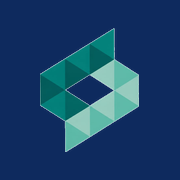
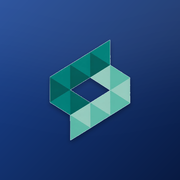
Orcamento: linhas fechadas com botao Editar (remover so com confirmacao e Desfazer); icone do app arredondado e adaptavel no Android

diff --git a/app/prop.js b/app/prop.js
@@ -186,7 +186,7 @@ function ppEditorLigar() {
   f.onsubmit = e => { e.preventDefault(); ppSalvar(); };
   // campo obrigatório dentro de um bloco recolhido: abre o bloco para mostrar o que falta
   f.addEventListener('invalid', e => { const d = e.target.closest('details'); if (d) d.open = true; }, true);
-  $('#ppEt').onclick = () => { ppColher(); const et = { tipo: 'E', descricao: '' }; E.linhas.push(et); E.alvo = et; E.sujo = true; ppDesenhar(true); ppMostraAlvo(); const l = $$('#ppLin .pp-l.et input'); if (l.length) l[l.length - 1].focus(); };
+  $('#ppEt').onclick = () => { ppColher(); const et = { tipo: 'E', descricao: '' }; E.linhas.push(et); E.alvo = et; E.sujo = true; ppDesenhar(true); ppMostraAlvo(); ppEditarEtapa(E.linhas.length - 1); };
   $('#ppDir').onclick = () => ppIncluir({ tipo: 'I', comp_cod: '', descricao: '', unidade: 'vb', qtd: '1', unit_mat: '', unit_mo: '', unit_eq: 0, unit_sv: 0 }, true);
   // recolher / expandir todas as etapas de uma vez (tela mais limpa)
   $('#ppTodas').onclick = () => { const ets = E.linhas.filter(l => l.tipo === 'E'), fecha = ets.some(l => !l._fechada); ets.forEach(l => { l._fechada = fecha; }); ppDesenhar(true); };
@@ -221,40 +221,43 @@ function ppIncluir(l, foco) {
   } else { const ult = E.linhas.filter(x => x.tipo === 'E').pop(); if (ult) ult._fechada = false; }
   E.linhas.splice(pos, 0, l); E.sujo = true;
   ppDesenhar(true);
-  const r = $(`#ppLin .pp-l.it[data-n="${pos}"]`);
-  if (r) { r.classList.add('novo'); const i = $(foco && !l.comp_cod ? '[data-c=descricao]' : '[data-c=qtd]', r); if (i) { i.focus(); i.select && i.select(); } r.scrollIntoView({ block: 'nearest' }); }
+  const r = $(`#ppLin .pp-r.pi[data-n="${pos}"]`);
+  if (r) { r.classList.add('novo'); r.scrollIntoView({ block: 'nearest' }); }
+  // preço direto ou celular: abre a edição; computador: cursor na quantidade da linha
+  if (!l.comp_cod || ppEstreito()) return ppEditarItem(pos);
+  const i = r && $('.pp-qin', r);
+  if (i) { i.focus(); i.select(); }
 }
 /* desenha as linhas (estrutura = refaz tudo; senão só os números) */
 function ppDesenhar(estrutura) {
   const E = PP.ed, C = ppCalc(E.p, E.linhas);
   if (estrutura) {
+    // linhas fechadas (só leitura): mexer no item ou na etapa é pelo "Editar"; remover só lá dentro, com confirmação.
+    // No computador a quantidade continua editável direto na linha.
     let fechada = false;   // itens de etapa recolhida não são desenhados (continuam no cálculo)
+    const ed = t => `<button type="button" class="pp-edit" data-a="ed" title="Editar ${t}">${ic('edit')}<span>Editar</span></button>`;
     $('#ppLin').innerHTML = E.linhas.length ? E.linhas.map((l, n) => {
-      const c = C.linhas[n], mv = `<span class="bp-it-a"><button type="button" class="icbtn" data-a="sobe" ${n ? '' : 'disabled'} title="Subir">${ic('up')}</button><button type="button" class="icbtn" data-a="desce" ${n < E.linhas.length - 1 ? '' : 'disabled'} title="Descer">${ic('down')}</button><button type="button" class="icbtn bp-x" data-a="tira" title="Tirar">${ic('x')}</button></span>`;
+      const c = C.linhas[n];
       if (l.tipo === 'E') {
         fechada = !!l._fechada;
-        return `<div class="pp-l et ${fechada ? 'fechada' : ''} ${E.alvo === l ? 'alvo' : ''}" data-n="${n}"><button type="button" class="pp-tg" data-a="tg" title="${fechada ? 'Expandir' : 'Recolher'} a etapa">${ic('chevron')}</button><span class="pp-cod">${esc(c.codigo)}</span>
-          <input data-c="descricao" value="${esc(l.descricao)}" placeholder="Nome da etapa (ex: Pavimentação)"><small class="pp-ni" data-ni></small><span class="bp-mono pp-sub" data-sub></span>
-          <button type="button" class="btn sec peq pp-add" data-a="add" title="Incluir um serviço nesta etapa">${ic('plus')}<span>Item</span></button>${mv}</div>`;
+        return `<div class="pp-r pe ${fechada ? 'fechada' : ''} ${E.alvo === l ? 'alvo' : ''}" data-n="${n}"><button type="button" class="pp-tg" data-a="tg" title="${fechada ? 'Expandir' : 'Recolher'} a etapa">${ic('chevron')}</button><span class="pp-cod">${esc(c.codigo)}</span>
+          <button type="button" class="pp-en" data-a="tg">${esc(l.descricao) || '<i>sem nome</i>'}</button><small class="pp-ni" data-ni></small><span class="bp-mono pp-sub" data-sub></span>
+          <button type="button" class="btn sec peq pp-add" data-a="add" title="Incluir um serviço nesta etapa">${ic('plus')}<span>Item</span></button>${ed('a etapa')}</div>`;
       }
       if (fechada) return '';
-      const comp = l.comp_cod ? BP.C[l.comp_cod] : null;
-      const tx = `<span class="pp-tx" title="Toque para tirar ou pôr este item no BDI / na gestão"><button type="button" data-tx="sem_bdi" class="${l.sem_bdi ? 'off' : ''}">BDI</button><button type="button" data-tx="sem_gestao" class="${l.sem_gestao ? 'off' : ''}">Gestão</button></span>`;
-      return `<div class="pp-l it ${l.comp_cod ? 'base' : 'dir'}" data-n="${n}"><span class="pp-cod">${esc(c.codigo)}</span>
-        <span class="pp-d">${tx}${l.comp_cod ? `<button type="button" class="bp-lnk pp-ver" data-ver="${n}" title="Ver os insumos deste serviço">${esc(l.descricao)}</button><small><code>${esc(l.comp_cod)}</code> · da base${comp ? '' : ' (não está mais na base)'} · custo ${bpM(c.custo_unit)}/${esc(l.unidade)}${l.obs ? ' · ' + esc(l.obs) : ''}</small>`
-          : `<input data-c="descricao" value="${esc(l.descricao)}" placeholder="Descrição do item (preço direto)"><span class="pp-dir"><label>Material/un<input data-c="unit_mat" inputmode="decimal" value="${esc(bpV(l.unit_mat))}" placeholder="0,00"></label><label>Mão de obra/un<input data-c="unit_mo" inputmode="decimal" value="${esc(bpV(l.unit_mo))}" placeholder="0,00"></label></span>`}</span>
-        <label class="pp-un"><small>Un</small>${l.comp_cod ? `<span>${esc(l.unidade)}</span>` : `<input data-c="unidade" value="${esc(l.unidade)}">`}</label>
-        <label class="pp-q"><small>Quant.</small><input data-c="qtd" inputmode="decimal" value="${esc(l.qtd)}" placeholder="0"></label>
-        <span class="pp-v"><small>Preço unit.</small><b class="bp-mono" data-pu></b></span><span class="pp-v"><small>Total</small><b class="bp-mono" data-pt></b></span>${mv}</div>`;
+      const comp = l.comp_cod ? BP.C[l.comp_cod] : null, fl = [l.sem_bdi && 'sem BDI', l.sem_gestao && 'sem gestão'].filter(Boolean);
+      return `<div class="pp-r pi ${l.comp_cod ? 'base' : 'dir'}" data-n="${n}"><span class="pp-cod">${esc(c.codigo)}</span>
+        <div class="pp-rd"><b>${esc(l.descricao) || '<i>sem descrição</i>'}</b><small>${l.comp_cod ? `<code>${esc(l.comp_cod)}</code> · da base${comp ? '' : ' (não está mais na base)'}` : 'preço direto'} · custo ${bpM(c.custo_unit)}/${esc(l.unidade)}${l.obs ? ' · ' + esc(l.obs) : ''}${fl.map(f => ` <span class="bp-flag">${f}</span>`).join('')}</small></div>
+        <div class="pp-rq"><small>Quant.</small><span><input class="pp-qin" data-c="qtd" inputmode="decimal" value="${esc(l.qtd)}" placeholder="0" aria-label="Quantidade"><b class="pp-qtx bp-mono">${l.qtd === '' ? '—' : nf(bpPn(l.qtd))}</b> <em>${esc(l.unidade)}</em></span></div>
+        <div class="pp-rv un"><small>Preço unit.</small><b class="bp-mono" data-pu></b></div><div class="pp-rv"><small>Total</small><b class="bp-mono" data-pt></b></div>${ed('o item')}</div>`;
     }).join('') : `<div class="bp-itens-vazio">${ic('list')}<b>Planilha vazia</b><small>Crie uma etapa e busque acima os serviços da base de preços (ou inclua um item de preço direto).</small></div>`;
     const tb = $('#ppTodas');
     if (tb) tb.lastChild.textContent = E.linhas.some(l => l.tipo === 'E' && !l._fechada) ? ' Recolher tudo' : ' Expandir tudo';
-    $$('#ppLin .pp-l').forEach(el => {
+    $$('#ppLin .pp-r').forEach(el => {
       const n = +el.dataset.n;
       $$('input[data-c]', el).forEach(i => { i.oninput = () => { E.linhas[n][i.dataset.c] = i.value; E.sujo = true; ppDesenhar(false); }; });
-      const ver = $('[data-ver]', el);
-      if (ver) ver.onclick = () => ppInsumos(E.linhas[n], C.linhas[n]);
-      $$('[data-tx]', el).forEach(b => { b.onclick = () => { const k = b.dataset.tx; E.linhas[n][k] = !E.linhas[n][k]; b.classList.toggle('off', E.linhas[n][k]); E.sujo = true; ppDesenhar(false); }; });
+      // celular: tocar no item abre a edição (os números ficam só para leitura)
+      if (el.classList.contains('pi')) el.onclick = e => { if (!e.target.closest('button,input') && ppEstreito()) ppEditarItem(n); };
       $$('[data-a]', el).forEach(b => { b.onclick = () => {
         ppColher();
         const a = b.dataset.a, L = E.linhas;
@@ -265,15 +268,13 @@ function ppDesenhar(estrutura) {
           const bq = $('#ppBusca'); bq.scrollIntoView({ block: 'center' }); bq.focus();
           return;
         }
-        if (a === 'tira') { if (L[n].tipo === 'E' && L.some((x, k) => k > n && x.tipo === 'I') && !confirm('Tirar a etapa? Os itens dela passam para a etapa anterior.')) return; L.splice(n, 1); }
-        else { const m = a === 'sobe' ? n - 1 : n + 1; [L[n], L[m]] = [L[m], L[n]]; }
-        E.sujo = true; ppDesenhar(true);
+        if (a === 'ed') L[n].tipo === 'E' ? ppEditarEtapa(n) : ppEditarItem(n);
       }; });
     });
   }
   const etapas = {};
   C.etapas.forEach(e => { etapas[e.codigo] = e; });
-  $$('#ppLin .pp-l').forEach(el => {
+  $$('#ppLin .pp-r').forEach(el => {
     const c = C.linhas[+el.dataset.n];
     if (c.tipo === 'E') {
       const e = etapas[c.codigo] || {}, s = $('[data-sub]', el), ni = $('[data-ni]', el);
@@ -282,6 +283,8 @@ function ppDesenhar(estrutura) {
       return;
     }
     $('[data-pu]', el).textContent = bpM(c.preco_unit); $('[data-pt]', el).textContent = bpM(c.preco);
+    const qt = $('.pp-qtx', el), q = E.linhas[+el.dataset.n].qtd;
+    if (qt) qt.textContent = q === '' ? '—' : nf(bpPn(q));
   });
   const T = C.total, salvo = !!E.id;
   $('#ppTopo').textContent = bpM(T.preco);
@@ -290,6 +293,120 @@ function ppDesenhar(estrutura) {
     <div class="bp-res-cats">${[['mat', 'Material', T.v_mat], ['mo', 'MO e serviços', T.v_serv], ['eq', 'BDI', T.bdi], ['sv', 'Gestão', T.gestao]].map(([k, t, v]) => `<div class="${v ? '' : 'zero'}"><i class="bp-dot k-${k}"></i><span>${t}</span><b class="bp-mono">${bpM(v)}</b><small>${T.preco ? Math.round(v / T.preco * 100) + '%' : ''}</small></div>`).join('')}</div>
     <small class="bp-res-n">custo direto ${bpM(T.custo)} · material ${ppPct(T.pct_material)} do custo</small>
     <button class="btn full bp-ac" id="ppSalvar">${ic('check')} ${salvo ? 'Salvar orçamento' : 'Criar orçamento'}</button>`;
+}
+/* celular (planilha estreita): quantidade só pelo "Editar" */
+const ppEstreito = () => ($('#ppLin') ? $('#ppLin').getBoundingClientRect().width : 999) < 560;
+/* "Desfazer" por alguns segundos depois de remover item ou etapa */
+function ppDesfazer(texto, antes) {
+  const p = document.createElement('p');
+  p.className = 'pp-undo';
+  p.innerHTML = `<span>${esc(texto)}</span><button type="button">Desfazer</button>`;
+  $('#toast').appendChild(p);
+  const t = setTimeout(() => p.remove(), 9000);
+  $('button', p).onclick = () => { clearTimeout(t); p.remove(); if (!PP.ed || !$('#ppLin')) return; PP.ed.linhas = antes; PP.ed.sujo = true; ppDesenhar(true); ppMostraAlvo(); toast('Desfeito.'); };
+}
+/* depois de mover: redesenha e destaca a linha */
+function ppDestaca(l) {
+  const E = PP.ed;
+  for (let k = E.linhas.indexOf(l); k >= 0; k--) if (E.linhas[k].tipo === 'E') { E.linhas[k]._fechada = false; break; }
+  E.sujo = true; ppDesenhar(true); ppMostraAlvo();
+  const r = $(`#ppLin .pp-r[data-n="${E.linhas.indexOf(l)}"]`);
+  if (r) { r.classList.add('novo'); r.scrollIntoView({ block: 'nearest' }); }
+}
+/* editar item: quantidade, BDI/gestão, observação, posição e etapa; (preço direto) descrição, unidade, material e MO; remover com confirmação */
+function ppEditarItem(n) {
+  ppColher();
+  const E = PP.ed, L = E.linhas, l = L[n];
+  if (!l || l.tipo !== 'I') return;
+  const C = ppCalc(E.p, L), c = C.linhas[n], dir = !l.comp_cod;
+  const ets = L.map((x, k) => [x, k]).filter(([x]) => x.tipo === 'E');
+  let minha = -1;
+  for (let k = n; k >= 0; k--) if (L[k].tipo === 'E') { minha = k; break; }
+  const f = modal(`${ic('edit')} Item ${esc(c.codigo)}`, `
+    ${dir ? `<label>Descrição<input name="descricao" required value="${esc(l.descricao)}" placeholder="Descrição do item (preço direto)"></label>
+      <div class="bp-g3"><label>Unidade<input name="unidade" required value="${esc(l.unidade)}"></label><label>Material / un (R$)<input name="unit_mat" inputmode="decimal" value="${esc(bpV(l.unit_mat))}" placeholder="0,00"></label><label>Mão de obra / un (R$)<input name="unit_mo" inputmode="decimal" value="${esc(bpV(l.unit_mo))}" placeholder="0,00"></label></div>`
+      : `<div class="pp-ed-cab"><div><b>${esc(l.descricao)}</b><small><code>${esc(l.comp_cod)}</code> · da base · custo ${bpM(c.custo_unit)}/${esc(l.unidade)}</small></div><button type="button" class="btn sec peq" id="ppEdIns">${ic('layers')} Ver insumos</button></div>`}
+    <div class="bp-g3"><label>Quantidade (${esc(l.unidade)})<input name="qtd" inputmode="decimal" required value="${esc(l.qtd)}" placeholder="0"></label><label class="bp-span2">Observação<input name="obs" value="${esc(l.obs || '')}" placeholder="opcional"></label></div>
+    <div class="pp-ed-tx"><label class="ck"><input type="checkbox" name="bdi" ${l.sem_bdi ? '' : 'checked'}> Entra no BDI</label><label class="ck"><input type="checkbox" name="ges" ${l.sem_gestao ? '' : 'checked'}> Entra na gestão</label></div>
+    <div class="pp-ed-pv" id="ppEdPv"></div>
+    <div class="pp-ed-mv"><b>Posição</b><button type="button" class="btn sec peq" data-mv="-1" ${n > 1 ? '' : 'disabled'}>${ic('up')} Subir</button><button type="button" class="btn sec peq" data-mv="1" ${n < L.length - 1 ? '' : 'disabled'}>${ic('down')} Descer</button>
+      ${ets.length > 1 ? `<label>Etapa<select name="etapa">${ets.map(([x, k]) => `<option value="${k}" ${k === minha ? 'selected' : ''}>${esc(C.linhas[k].codigo)} · ${esc(x.descricao || 'sem nome')}</option>`).join('')}</select></label>` : ''}</div>
+    <div class="pp-ed-perigo"><button type="button" class="btn sec pp-rem" id="ppEdRem">${ic('trash')} Remover item</button></div>`, {
+    ok: 'Pronto',
+    onOk: ff => {
+      aplicar(ff);
+      const alvo = ff.etapa ? +ff.etapa.value : minha;
+      if (alvo !== minha && L[alvo]) {           // outra etapa: vai para o fim dela
+        L.splice(L.indexOf(l), 1);
+        const i = L.indexOf(ets.find(([, k]) => k === alvo)[0]), prox = L.findIndex((x, k) => k > i && x.tipo === 'E');
+        L.splice(prox < 0 ? L.length : prox, 0, l);
+      }
+      ppDestaca(l);
+    }
+  });
+  const ler = ff => {
+    const o = Object.assign({}, l, { qtd: ff.qtd.value, obs: ff.obs.value.trim(), sem_bdi: !ff.bdi.checked, sem_gestao: !ff.ges.checked });
+    if (dir) Object.assign(o, { descricao: ff.descricao.value.trim(), unidade: ff.unidade.value.trim(), unit_mat: ff.unit_mat.value, unit_mo: ff.unit_mo.value });
+    return o;
+  };
+  const aplicar = ff => { Object.assign(l, ler(ff)); E.sujo = true; };
+  const previa = () => {
+    const tmp = L.slice(); tmp[n] = ler(f);
+    const x = ppCalc(E.p, tmp).linhas[n];
+    $('#ppEdPv').innerHTML = `<span>Preço unit. <b class="bp-mono">${bpM(x.preco_unit)}</b></span><span>Total <b class="bp-mono">${bpM(x.preco)}</b></span><small>custo ${bpM(x.custo)} · BDI ${bpM(x.bdi)} · gestão ${bpM(x.gestao)}</small>`;
+  };
+  f.addEventListener('input', previa); f.addEventListener('change', previa); previa();
+  if ($('#ppEdIns')) $('#ppEdIns').onclick = () => { aplicar(f); ppInsumos(l, ppCalc(E.p, L).linhas[n]); };
+  $$('[data-mv]', f).forEach(b => { b.onclick = () => {
+    aplicar(f);
+    const m = n + +b.dataset.mv;
+    [L[n], L[m]] = [L[m], L[n]];
+    fecharModal(); ppDestaca(l);
+  }; });
+  $('#ppEdRem').onclick = () => {
+    if (!confirm(`Remover o item ${c.codigo} · ${l.descricao} (${bpM(c.preco)})?`)) return;
+    const antes = L.slice();
+    L.splice(n, 1); E.sujo = true;
+    fecharModal(); ppDesenhar(true); ppMostraAlvo();
+    ppDesfazer(`Item ${c.codigo} removido`, antes);
+  };
+  setTimeout(() => { const q = f.qtd; if (q && !ppEstreito()) { q.focus(); q.select(); } }, 60);
+}
+/* editar etapa: nome, posição (a etapa anda com os itens) e excluir (avisa quantos itens e quanto sai junto) */
+function ppEditarEtapa(n) {
+  ppColher();
+  const E = PP.ed, L = E.linhas, l = L[n];
+  if (!l || l.tipo !== 'E') return;
+  const C = ppCalc(E.p, L), cod = C.linhas[n].codigo, e = C.etapas.find(x => x.codigo === cod) || { itens: 0, preco: 0 };
+  const fimBloco = i => { let k = i + 1; while (k < L.length && L[k].tipo !== 'E') k++; return k; };
+  const nEt = L.filter(x => x.tipo === 'E').length, ordem = L.slice(0, n + 1).filter(x => x.tipo === 'E').length;
+  const f = modal(`${ic('edit')} Etapa ${esc(cod)}`, `<label>Nome da etapa<input name="nome" required value="${esc(l.descricao)}" placeholder="ex: Pavimentação"></label>
+    <small>${plural(e.itens, 'item', 'itens')} · ${bpM(e.preco)}</small>
+    <div class="pp-ed-mv"><b>Posição</b><button type="button" class="btn sec peq" data-mv="-1" ${ordem > 1 ? '' : 'disabled'}>${ic('up')} Subir etapa</button><button type="button" class="btn sec peq" data-mv="1" ${ordem < nEt ? '' : 'disabled'}>${ic('down')} Descer etapa</button><small>a etapa muda de lugar com todos os itens dela</small></div>
+    <div class="pp-ed-perigo"><button type="button" class="btn sec pp-rem" id="ppEdRem">${ic('trash')} Excluir etapa</button>${e.itens ? `<small>os ${plural(e.itens, 'item', 'itens')} dela (${bpM(e.preco)}) saem junto</small>` : ''}</div>`, {
+    ok: 'Pronto',
+    onOk: ff => { const v = ff.nome.value.trim(); if (!v) { toast('Dê um nome para a etapa.', 1); return false; } l.descricao = v; E.sujo = true; ppDesenhar(true); ppMostraAlvo(); }
+  });
+  $$('[data-mv]', f).forEach(b => { b.onclick = () => {
+    const v = f.nome.value.trim(); if (v) l.descricao = v;
+    const fim = fimBloco(n), bloco = L.slice(n, fim);
+    if (+b.dataset.mv < 0) {
+      let p = n - 1; while (p > 0 && L[p].tipo !== 'E') p--;
+      L.splice(n, bloco.length); L.splice(p, 0, ...bloco);
+    } else {
+      const fim2 = fimBloco(fim), prox = L.slice(fim, fim2);
+      L.splice(n, bloco.length + prox.length, ...prox, ...bloco);
+    }
+    fecharModal(); ppDestaca(l);
+  }; });
+  $('#ppEdRem').onclick = () => {
+    if (!confirm(`Excluir a etapa ${cod} · ${l.descricao || 'sem nome'}${e.itens ? ` e os ${plural(e.itens, 'item', 'itens')} dela (${bpM(e.preco)})` : ''}?`)) return;
+    const antes = L.slice();
+    L.splice(n, fimBloco(n) - n); E.sujo = true;
+    fecharModal(); ppDesenhar(true); ppMostraAlvo();
+    ppDesfazer(`Etapa ${cod} excluída`, antes);
+  };
+  setTimeout(() => { if (!l.descricao) f.nome.focus(); }, 60);
 }
 async function ppSalvar(silencioso) {
   ppColher();

diff --git a/app/style.css b/app/style.css
@@ -1356,3 +1356,54 @@ p.cr-vazio{position:static;transform:none;padding:20px}
 .bp-res-top div{min-width:0}.bp-res-top b{overflow-wrap:anywhere}
 .bp-res-cats div{grid-template-columns:auto minmax(0,1fr) auto 38px}.bp-res-cats b{white-space:nowrap}
 @container (min-width:860px) and (max-width:1099px){.bp-res-top .bp-donut{width:56px;height:56px}.bp-res-top b{font-size:1.25rem}}@media (min-width:1500px){.rel-grid{grid-template-columns:minmax(440px,560px) minmax(0,1fr)}}.ct-res:not(.bp-res),.or-res{grid-template-columns:repeat(auto-fit,minmax(170px,1fr))}@container (min-width:860px){.bp-res-top .bp-donut{width:62px;height:62px;flex:none}.bp-res-top b{font-size:1.3rem;white-space:nowrap;overflow-wrap:normal}}
+/* ===== orçamento: linhas fechadas (só leitura) + "Editar" (prop.js) ===== */
+.pp-r{display:grid;align-items:center;gap:6px 12px;padding:8px 10px;border-radius:11px;border:1px solid var(--line);background:#fff;min-width:0}
+.pp-r>*{min-width:0}
+.pp-r.novo{animation:bpNovo 1.2s ease}
+.pp-r.pe{display:flex;flex-wrap:nowrap;background:linear-gradient(90deg,#F2F5FB,#fff);border-color:#D5DEEC;margin-top:6px}
+.pp-r.pe.fechada{background:#fff;border-color:var(--line);margin-top:4px}
+.pp-r.pe.alvo{box-shadow:inset 4px 0 0 var(--bp-ac);border-color:var(--bp-ac)}
+.pp-r.pe .pp-cod{width:28px;flex:none}
+.pp-en{flex:1;min-width:0;text-align:left;background:none;border:0;padding:6px 2px;font:inherit;font-weight:800;color:var(--bp-ink);cursor:pointer;overflow:hidden;text-overflow:ellipsis;white-space:nowrap}
+.pp-en i{color:var(--err);font-weight:600}
+.pp-r.pe .pp-sub{flex:none;white-space:nowrap;font-size:.86rem}
+.pp-r.pi{grid-template-columns:44px minmax(0,1fr) 150px 118px 132px auto}
+.pp-r.pi.dir{background:#FFFCF5}
+.pp-rd{display:grid;gap:2px}.pp-rd b{color:var(--bp-ink);font-weight:600;font-size:.9rem;line-height:1.25}.pp-rd b i{color:var(--err);font-weight:500}
+.pp-rd small{font-size:.74rem;color:var(--mute);display:flex;flex-wrap:wrap;gap:2px 6px;align-items:center}
+.pp-rq,.pp-rv{display:grid;gap:2px}.pp-rq small,.pp-rv small{font-size:.66rem;color:var(--mute);text-transform:uppercase;letter-spacing:.04em}
+.pp-rq>span{display:flex;align-items:center;gap:6px}.pp-rq em{font-style:normal;font-size:.8rem;color:var(--mute)}
+.pp-qin{width:100%;min-height:36px;padding:5px 8px;text-align:right;font-family:var(--bp-mono)}
+.pp-qtx{display:none;font-size:.88rem;color:var(--bp-ink)}
+.pp-rv{text-align:right}.pp-rv b{color:var(--bp-ink);font-size:.86rem;white-space:nowrap}
+.pp-edit{display:inline-flex;align-items:center;gap:6px;flex:none;border:1px solid #D5DEEC;background:#F4F7FC;color:var(--navy);border-radius:9px;padding:0 10px;min-height:34px;font:inherit;font-size:.82rem;font-weight:700;cursor:pointer}
+.pp-edit:hover{background:var(--blue-l);border-color:#B9CCEB}.pp-edit .ic{width:15px;height:15px}
+/* painel de edição */
+.pp-ed-cab{display:flex;gap:10px;align-items:center;justify-content:space-between;flex-wrap:wrap;padding:10px 12px;border-radius:10px;background:#F4F6FA}
+.pp-ed-cab>div{display:grid;gap:2px;min-width:0}.pp-ed-cab b{color:var(--bp-ink)}.pp-ed-cab small{color:var(--mute)}
+.pp-ed-tx{display:flex;gap:18px;flex-wrap:wrap}
+.pp-ed-pv{display:flex;gap:6px 18px;flex-wrap:wrap;align-items:baseline;padding:10px 12px;border-radius:10px;background:var(--bp-ink);color:#C9D6F2}
+.pp-ed-pv b{color:#fff;font-size:1.05rem}.pp-ed-pv small{flex-basis:100%;color:#8FA2CF}
+.pp-ed-mv{display:flex;gap:8px;flex-wrap:wrap;align-items:flex-end;padding-top:6px;border-top:1px solid var(--line)}
+.pp-ed-mv>b{flex-basis:100%;font-size:.78rem;text-transform:uppercase;letter-spacing:.04em;color:var(--mute)}
+.pp-ed-mv label{flex:1 1 220px;margin:0}.pp-ed-mv>small{flex-basis:100%;color:var(--mute)}
+.pp-ed-perigo{display:flex;gap:10px;flex-wrap:wrap;align-items:center;margin-top:6px;padding-top:12px;border-top:1px dashed #F0C7C2}
+.pp-ed-perigo small{color:var(--err)}
+.btn.pp-rem{color:var(--err);border-color:#F0C7C2;background:#fff}.btn.pp-rem:hover{background:var(--err-l)}
+/* aviso com "Desfazer" */
+.toast p.pp-undo{display:flex;align-items:center;justify-content:space-between;gap:12px;pointer-events:auto;padding:8px 8px 8px 14px}
+.pp-undo button{border:0;border-radius:8px;background:var(--bp-ac);color:var(--bp-ink);font:inherit;font-weight:800;padding:8px 14px;cursor:pointer}/* a planilha mede a própria largura (o editor tem painéis dos lados no computador) */
+.pp-lin{container-type:inline-size}
+@container (max-width:900px) and (min-width:560px){
+  .pp-r.pi{grid-template-columns:36px minmax(0,1fr) 120px 130px auto;grid-template-areas:"c d d d e" "c q u t e"}
+  .pp-r.pi>.pp-cod{grid-area:c;align-self:start;padding-top:2px}.pp-r.pi>.pp-rd{grid-area:d}.pp-r.pi>.pp-rq{grid-area:q}.pp-r.pi>.pp-rv.un{grid-area:u;display:grid}.pp-r.pi>.pp-rv:not(.un){grid-area:t}.pp-r.pi>.pp-edit{grid-area:e}
+  .pp-rq{max-width:190px}
+}
+@container (max-width:559px){
+  .pp-r.pi{grid-template-columns:30px minmax(0,1fr) auto;grid-template-areas:"c d e" "c q t";cursor:pointer;gap:4px 10px}
+  .pp-r.pi>.pp-cod{grid-area:c;align-self:start;padding-top:2px}.pp-r.pi>.pp-rd{grid-area:d}.pp-r.pi>.pp-edit{grid-area:e;align-self:start}
+  .pp-r.pi>.pp-rq{grid-area:q}.pp-r.pi>.pp-rv:not(.un){grid-area:t}.pp-rv.un{display:none}
+  .pp-qin{display:none}.pp-qtx{display:inline}.pp-rq small,.pp-rv small{display:none}
+  .pp-edit span,.pp-add span{display:none}.pp-edit,.pp-add{width:38px;min-height:38px;padding:0;justify-content:center}
+  .pp-r.pe{gap:4px;padding:6px 8px}.pp-r.pe .pp-cod{width:18px}.pp-ni{display:none}.pp-r.pe .pp-sub{font-size:.76rem}
+}@container (min-width:560px){.pp-r.pe .pp-add{width:auto;padding:0 10px}.pp-r.pe .pp-add span{display:inline}.pp-r.pe .pp-ni{display:inline}}@container (max-width:559px){.pp-r.pe{flex-wrap:wrap;row-gap:0}.pp-r.pe .pp-en{flex:1 1 calc(100% - 150px);white-space:normal;line-height:1.2}.pp-r.pe .pp-sub{order:9;flex-basis:100%;padding-left:52px;margin-top:-4px;font-size:.78rem;color:var(--mute)}}

diff --git a/app/sw.js b/app/sw.js
@@ -1,6 +1,6 @@
 // Cache do app para abrir rápido e funcionar com sinal fraco na obra (os dados sempre vêm da API).
-const CACHE = 'size-v42';
-const ARQUIVOS = ['./', './index.html', './style.css', './config.js', './app.js', './exec.js', './relatorio.js', './fvs.js', './med.js', './ctr.js', './ctr-doc.js', './orc.js', './relobra.js', './base.js', './prop.js', './crono.js','./empresa.js','./push.js', './sw-registro.js', './manifest.json', './icon-180.png', './icon-192.png', './icon-512.png', './logo.png', './fornecedor.html', './forn.js'];
+const CACHE = 'size-v43';
+const ARQUIVOS = ['./', './index.html', './style.css', './config.js', './app.js', './exec.js', './relatorio.js', './fvs.js', './med.js', './ctr.js', './ctr-doc.js', './orc.js', './relobra.js', './base.js', './prop.js', './crono.js','./empresa.js','./push.js', './sw-registro.js', './manifest.json', './icon-180.png', './icon-192.png', './icon-512.png', './icon-maskable-512.png', './logo.png', './fornecedor.html', './forn.js'];
 
 // cache: 'reload' / 'no-cache': nunca usar a cópia do navegador (o GitHub Pages manda guardar 10 min),
 // senão uma versão nova do app pode abrir com o style.css ou um .js antigos

diff --git a/app/index.html b/app/index.html
@@ -12,9 +12,9 @@
 <meta name="apple-mobile-web-app-title" content="Size">
 <meta name="format-detection" content="telephone=no">
 <link rel="manifest" href="manifest.json">
-<link rel="icon" type="image/png" sizes="192x192" href="icon-192.png">
-<link rel="apple-touch-icon" sizes="180x180" href="icon-180.png">
-<link rel="stylesheet" href="style.css?v=42">
+<link rel="icon" type="image/png" sizes="192x192" href="icon-192.png?v=2">
+<link rel="apple-touch-icon" sizes="180x180" href="icon-180.png?v=2">
+<link rel="stylesheet" href="style.css?v=43">
 </head>
 <body>
 <div id="raiz"><div class="carregando tela"><span class="spin"></span></div></div>
